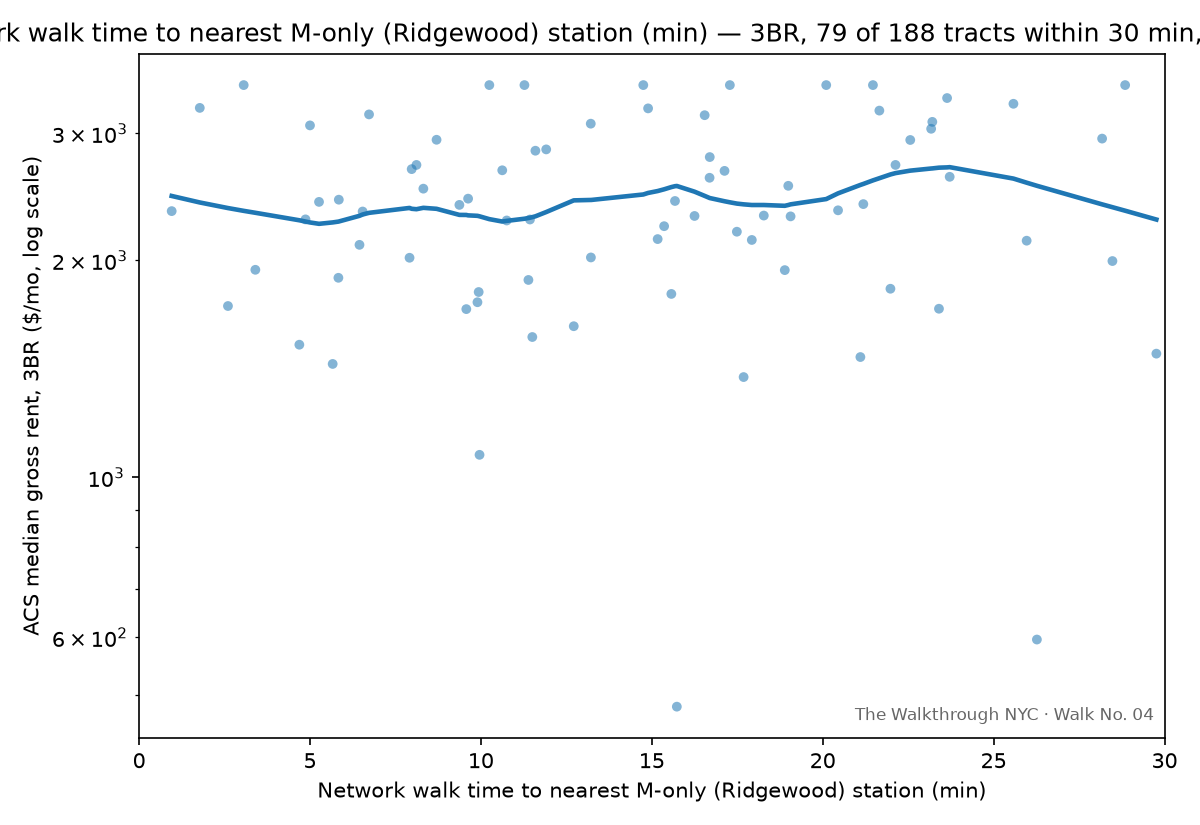
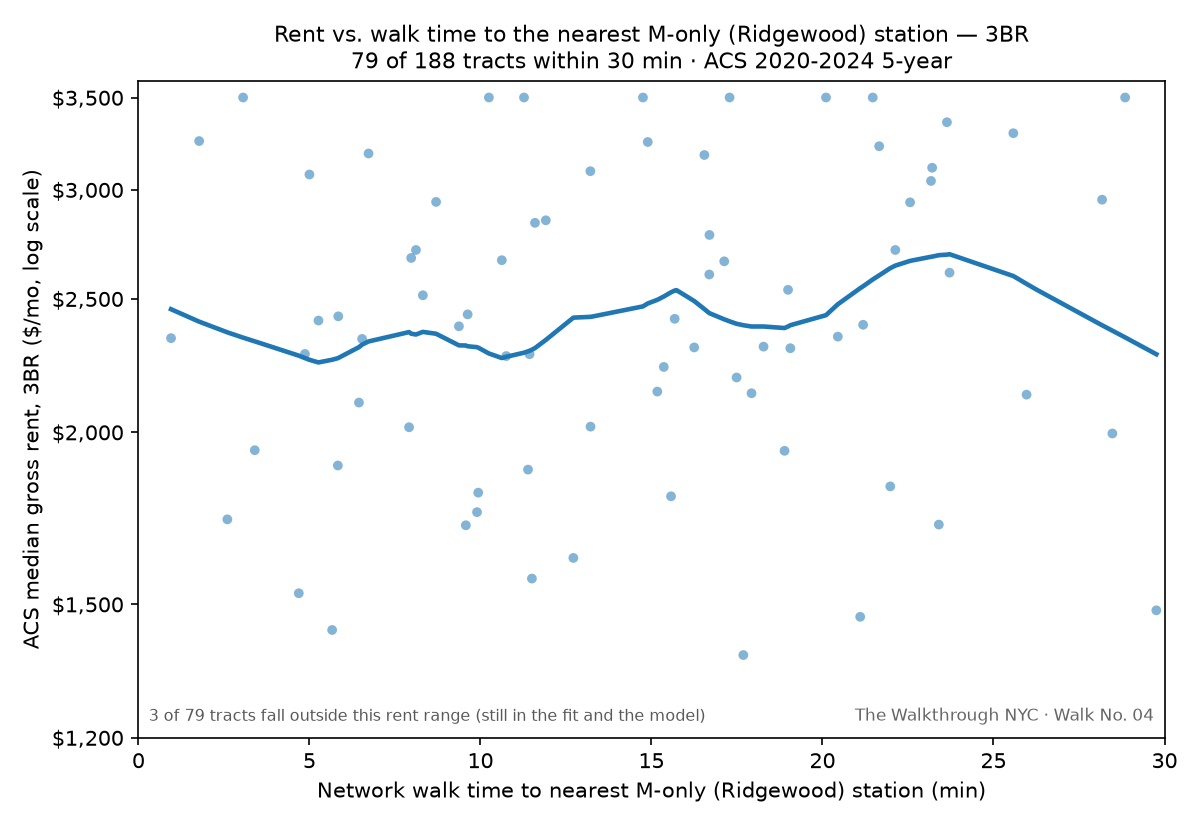
Add the binned gradient chart and tighten the scatter y-axis
The scatter crops at 30 walk-minutes, which is the flat part of the
curve, so it shows the finding at its least visible. gradient_binned*.png
plots median rent per walk-time bin out to 60 minutes, where the gradient
is plain: $2,088 -> $2,026 -> $1,960 -> $1,833 across the combined
series. Bootstrapped 95% intervals (seeded, so reruns don't churn the
PNG) and the full-sample model as a dashed reference line.

60 rather than the full 112-minute range because past an hour it stops
reading as "a walk"; 60 rather than 30 because capping at 30 removes the
evidence rather than an implausible claim. Jordan's call.

The title is descriptive, not a claim: combined, 1BR and 2BR fall across
the bins, but 3BR rises ($2,364 -> $2,634).

Also holds the scatter's y-axis to CHART_RENT_YLIM. Seven tracts in the
band are deeply subsidized -- full renter occupancy, thousands of
households, rent near $500 -- and left unbounded they squashed the
market-rate spread into the top half of the frame. They stay in the fit
and in the model; the chart counts them in a corner note. The scatter
title was also being clipped off both edges and now wraps.

Bin edges, the rent window and the minimum bin size are config knobs.

diff --git a/walk-04-ridgewood-rent-premium/src/03_clean_join.py b/walk-04-ridgewood-rent-premium/src/03_clean_join.py
@@ -9,6 +9,8 @@ blended median and the three bedroom-specific cuts. Produces, per series:
   - outputs/figures/scatter_rent_vs_ridgewood[_Nbr].png  THE plot — rent vs.
     walk to the nearest M-only (Ridgewood) station, 0-30 min, with a lowess
     overlay. Look at it. The plot is the gate, not the printed slope.
+  - outputs/figures/gradient_binned[_Nbr].png  the same gradient as group
+    medians out to 60 min — the version that reads from ten feet away.
 """
 
 from __future__ import annotations
@@ -39,30 +41,61 @@ CHARTS = [
      "scatter_rent_vs_ridgewood"),
 ]
 
+# Chart ink. BLUE carries the data; MUTED is reference/annotation, never a
+# second data series.
+BLUE, INK, MUTED = "#1f77b4", "#2b2b2b", "#8a8f98"
+
 
 def make_scatter(d: pd.DataFrame, rent_col: str, x_col: str, x_label: str,
                   label: str, out_png) -> float:
     """One scatter + lowess + bivariate slope, restricted to the realistic
     0-30 min walking range — both the fit and the display, not just the
     display, so far-away tracts don't smooth out the local pattern.
-    Returns the bivariate slope from that restricted range."""
+
+    The y-axis is held to config.CHART_RENT_YLIM so a few deeply subsidized
+    tracts don't squash the market-rate spread into the top of the frame.
+    That is a DISPLAY choice only: the lowess, the slope, and the model all
+    still use every tract, and any point outside the window is counted in a
+    note on the chart rather than quietly disappearing.
+
+    Returns the bivariate slope from the restricted range."""
     full_n = len(d)
     d = d[d[x_col] <= 30]
 
     fig, ax = plt.subplots(figsize=(8, 5.5), dpi=150)
     ax.scatter(d[x_col], d[rent_col], s=22, alpha=0.55, edgecolor="none")
 
+    # Fit on every tract in range, including any the y-window will hide.
     lo = sm.nonparametric.lowess(np.log(d[rent_col]), d[x_col], frac=0.3)
     ax.plot(lo[:, 0], np.exp(lo[:, 1]), lw=2.2)
 
     ax.set_yscale("log")
     ax.set_xlim(0, 30)
+
+    if C.CHART_RENT_YLIM:
+        y_lo, y_hi = C.CHART_RENT_YLIM
+        ax.set_ylim(y_lo, y_hi)
+        # Dollar ticks beat matplotlib's 2 x 10^3 for a walk audience.
+        ticks = [t for t in (1200, 1500, 2000, 2500, 3000, 3500) if y_lo <= t <= y_hi]
+        ax.set_yticks(ticks)
+        ax.set_yticklabels([f"${t:,}" for t in ticks])
+        ax.minorticks_off()
+
+        n_out = int(((d[rent_col] < y_lo) | (d[rent_col] > y_hi)).sum())
+        if n_out:
+            ax.text(0.01, 0.02,
+                    f"{n_out} of {len(d)} tracts fall outside this rent range "
+                    f"(still in the fit and the model)",
+                    transform=ax.transAxes, ha="left", va="bottom",
+                    fontsize=7.5, alpha=0.65)
+
     ax.set_xlabel(x_label)
     ax.set_ylabel(f"ACS median gross rent, {label} ($/mo, log scale)")
     vintage = int(d["acs_vintage"].iloc[0]) if "acs_vintage" in d else C.ACS_YEAR
-    ax.set_title(f"Rent vs. {x_label[0].lower()}{x_label[1:]} — {label}, "
-                 f"{len(d)} of {full_n} tracts within 30 min, "
-                 f"ACS {vintage - 4}-{vintage} 5-year")
+    ax.set_title(
+        f"Rent vs. walk time to the nearest M-only (Ridgewood) station — {label}\n"
+        f"{len(d)} of {full_n} tracts within 30 min · ACS {vintage - 4}-{vintage} 5-year",
+        fontsize=10.5)
     ax.text(0.99, 0.02, "The Walkthrough NYC · Walk No. 04", transform=ax.transAxes,
             ha="right", va="bottom", fontsize=8, alpha=0.6)
     fig.tight_layout()
@@ -71,6 +104,90 @@ def make_scatter(d: pd.DataFrame, rent_col: str, x_col: str, x_label: str,
 
     biv = sm.OLS(np.log(d[rent_col]), sm.add_constant(d[x_col])).fit()
     return float(biv.params[x_col])
+
+
+def make_binned_chart(d: pd.DataFrame, rent_col: str, label: str, out_png) -> None:
+    """Median rent per walk-time bin, out to config.BINNED_EDGES[-1].
+
+    The scatter crops at 30 minutes, which is the flat part of the curve —
+    this chart is the one where the gradient is actually visible, because it
+    keeps the farther tracts that give "near" something to be measured
+    against. Bootstrapped 95% intervals on each median (seeded, so reruns
+    don't churn the PNG), and the fitted model as a dashed reference line.
+
+    The model is refit here rather than read from coefficients.json so this
+    script stays runnable before 04 has ever been run.
+    """
+    rng = np.random.default_rng(0)
+    edges = C.BINNED_EDGES
+    full = d                                   # the model is the FULL-sample
+    d = d[d["walk_M_min"] <= edges[-1]]        # one; only the bins are capped
+
+    rows = []
+    for lo, hi in zip(edges[:-1], edges[1:]):
+        s = d[(d["walk_M_min"] > lo) & (d["walk_M_min"] <= hi)]
+        if len(s) < C.BINNED_MIN_N:
+            continue
+        vals = s[rent_col].values
+        boot = [np.median(rng.choice(vals, len(vals), replace=True)) for _ in range(2000)]
+        rows.append(dict(x=s["walk_M_min"].median(), med=np.median(vals), n=len(s),
+                         lab=f"{lo}\u2013{hi}", lo=np.percentile(boot, 2.5),
+                         hi=np.percentile(boot, 97.5)))
+    if len(rows) < 2:
+        print(f"  (binned chart skipped — only {len(rows)} usable bin(s))")
+        return
+    B = pd.DataFrame(rows)
+
+    fig, ax = plt.subplots(figsize=(8.6, 5.6), dpi=150)
+    ax.set_axisbelow(True)
+    ax.yaxis.grid(True, color="#e6e6e3", lw=0.8)
+    for spine in ("top", "right"):
+        ax.spines[spine].set_visible(False)
+    for spine in ("left", "bottom"):
+        ax.spines[spine].set_color("#cfcfca")
+
+    try:
+        res, info = lib.fit_model(full, rent_col=rent_col)
+        b1, p0 = info["beta1_per_min"], lib.predicted_p0(res, full)
+        w = np.linspace(0, edges[-1], 300)
+        ax.plot(w, p0 * np.exp(b1 * w), ls="--", lw=1.6, color=MUTED, zorder=1)
+        ax.annotate("model, controls held fixed — full sample\n"
+                    f"({b1 * 100:+.2f}% per minute, n={info['n']})",
+                    xy=(edges[-1] * 0.95, p0 * np.exp(b1 * edges[-1] * 0.95)),
+                    xytext=(0.08, 0.10), textcoords="axes fraction",
+                    fontsize=8.5, color=MUTED, ha="left", va="center",
+                    arrowprops=dict(arrowstyle="-", color=MUTED, lw=0.8))
+    except Exception as exc:                      # a thin series may not fit
+        print(f"  (model reference line skipped: {exc})")
+
+    ax.errorbar(B.x, B.med, yerr=[B.med - B.lo, B.hi - B.med], fmt="none",
+                ecolor=BLUE, elinewidth=1.4, capsize=4, alpha=0.55, zorder=2)
+    ax.plot(B.x, B.med, "-", lw=2.0, color=BLUE, zorder=3)
+    ax.scatter(B.x, B.med, s=70, color=BLUE, zorder=4, edgecolor="white", linewidth=1.5)
+    for r in B.itertuples():
+        ax.annotate(f"${r.med:,.0f}", (r.x, r.med), textcoords="offset points",
+                    xytext=(0, 15), ha="center", fontsize=10, color=INK, fontweight="bold")
+        ax.annotate(f"n={r.n}", (r.x, r.med), textcoords="offset points",
+                    xytext=(0, -17), ha="center", fontsize=8, color=MUTED)
+
+    # Leave room for every interval: a clipped error bar reads as "goes on
+    # forever", which is a worse lie than a roomy axis.
+    pad = 0.06 * (B.hi.max() - B.lo.min())
+    ax.set_xlim(-2, edges[-1] + 2)
+    ax.set_ylim(B.lo.min() - pad, B.hi.max() + pad)
+    ax.yaxis.set_major_formatter(lambda v, _: f"${v:,.0f}")
+    ax.set_xticks(edges)
+    ax.set_xlabel("Network walk time to the nearest M-only (Ridgewood) station (min)")
+    ax.set_ylabel(f"Median gross rent, {label} ($/mo)")
+    ax.set_title("Rent falls the farther you get from an M-only station\n"
+                 f"{label} · median across the {len(d)} tracts within "
+                 f"{edges[-1]} minutes' walk",
+                 fontsize=11.5, color=INK, loc="left", x=0)
+    ax.text(0.99, 0.02, "The Walkthrough NYC \u00b7 Walk No. 04", transform=ax.transAxes,
+            ha="right", va="bottom", fontsize=8, color=MUTED)
+    fig.tight_layout()
+    fig.savefig(out_png)
+    plt.close(fig)
 
 
 def process_series(df: pd.DataFrame, label: str, rent_col: str, moe_col: str, suffix: str) -> None:
@@ -107,6 +224,11 @@ def process_series(df: pd.DataFrame, label: str, rent_col: str, moe_col: str, su
         print(f"  Bivariate slope (no controls): {b * 100:+.2f}% per walk minute")
         if b < 0:
             print(f"  Naive half-life at that slope: {lib.half_life(b):.0f} min")
+
+    binned_png = C.FIGURES / f"gradient_binned{suffix}.png"
+    make_binned_chart(clean.dropna(subset=[rent_col, "walk_M_min"]), rent_col,
+                      label, binned_png)
+    print(f"Binned gradient -> {binned_png.relative_to(C.ROOT)}")
 
 
 def main() -> None:

diff --git a/walk-04-ridgewood-rent-premium/src/config.py b/walk-04-ridgewood-rent-premium/src/config.py
@@ -126,3 +126,25 @@ RENT_TOPCODE = 3500        # ACS top-codes median gross rent ("$3,500+").
                            # Bedford end, where true medians exceed it.
 
 GATE1_COMFORTABLE_N = 120  # suggestion only — the gate decision is yours
+
+# ---------------------------------------------------------------- charts
+CHART_RENT_YLIM = (1200, 3600)  # rent window the scatters display ($/mo).
+                                # The band is market-rate Ridgewood; a handful
+                                # of deeply subsidized tracts sit far below it
+                                # and, left in, squash everything else into the
+                                # top half of the frame. Tracts outside the
+                                # window are COUNTED IN A CORNER NOTE on the
+                                # chart, never silently dropped — and they stay
+                                # in the model regardless; this is a display
+                                # choice only. Set to None for matplotlib's
+                                # automatic range.
+
+BINNED_EDGES = [0, 15, 30, 45, 60]  # walk-minute bins for the binned-gradient
+                                    # chart. The scatter's 0-30 window is the
+                                    # flat part of the curve; the gradient only
+                                    # becomes visible once the farther tracts
+                                    # are in the frame, so this chart runs to 60.
+                                    # Past that it stops reading as "a walk" at
+                                    # all — Jordan's call, 2026-09-24.
+BINNED_MIN_N = 5                    # skip a bin thinner than this: a median of
+                                    # three tracts is not worth a dot.

diff --git a/walk-04-ridgewood-rent-premium/CLAUDE.md b/walk-04-ridgewood-rent-premium/CLAUDE.md
@@ -57,9 +57,20 @@ ln(rent_i) = β₀ + β₁·walk_M_i + controls + ε_i
 - Run once per rent series (combined/1BR/2BR/3BR) as a robustness check;
   results consolidated into one `model_summary.txt` and one
   `coefficients.json`.
-- One chart per series: `scatter_rent_vs_ridgewood*.png`, restricted to
-  the realistic 0–30 min walking range (both the display and the lowess
-  fit, so far-away tracts don't smooth out the local pattern).
+- Two charts per series. `scatter_rent_vs_ridgewood*.png` is the
+  tract-level scatter, restricted to the realistic 0–30 min walking range
+  (both the display and the lowess fit, so far-away tracts don't smooth
+  out the local pattern), with the y-axis held to `CHART_RENT_YLIM` so a
+  few deeply subsidized tracts don't squash the market-rate spread — they
+  stay in the model and are counted in a note on the chart.
+  `gradient_binned*.png` is the one that reads from across a sidewalk:
+  median rent per walk-time bin out to 60 min (`BINNED_EDGES`), with
+  bootstrapped 95% intervals and the full-sample model as a dashed
+  reference. It runs to 60 rather than 30 because the 0–30 window is the
+  flat part of the curve, and past 60 it stops reading as "a walk" —
+  Jordan's call, 2026-09-24. Its title is deliberately descriptive: the
+  combined, 1BR and 2BR series fall across the bins, but **3BR rises**
+  ($2,364 → $2,634), so the chart must not assert a direction.
 - Realistic-range check (tracts with `walk_M_min` ≤ 30): the raw
   correlation looks stronger, but the controlled model loses power — 3 of
   4 series stop being significant. The full-sample result is the reliable
@@ -81,7 +92,7 @@ ln(rent_i) = β₀ + β₁·walk_M_i + controls + ε_i
 |---|---|---|
 | `src/01_pull_acs.py` | `make pull` | Stations → tag the M-only tier (complex-aware) → corridor spine → band → TIGER tracts → ACS pull (blended + per-bedroom). Prints Gate 1. |
 | `src/02_walk_times.py` | `make walktimes` | OSMnx walk graph, multi-source Dijkstra x3 (M-only; full non-L and L as controls). Labels each tract's nearest M-only station. |
-| `src/03_clean_join.py` | `make clean_join` | Cleans + plots the Ridgewood scatter for all four rent series. Prints Gate 2. |
+| `src/03_clean_join.py` | `make clean_join` | Cleans, then plots two charts per rent series: the tract-level scatter (0–30 min) and the binned-median gradient (out to 60 min). Prints Gate 2. |
 | `src/04_model.py` | `make model` | Fits all four series; the M coefficient is the headline. Writes `model_summary.txt` and `coefficients.json`. |
 
 `src/config.py` holds every tunable knob. `src/lib.py` holds the tested

diff --git a/walk-04-ridgewood-rent-premium/README.md b/walk-04-ridgewood-rent-premium/README.md
@@ -51,7 +51,7 @@ pip install -r requirements.txt
 export CENSUS_API_KEY=...   # free + instant: https://api.census.gov/data/key_signup.html
 make pull        # 01: band, tracts, ACS rent (blended + per-bedroom) → prints Gate 1
 make walktimes   # 02: OSMnx walk times by station tier
-make clean_join  # 03: cleaning log + the Ridgewood scatter, per series → prints Gate 2
+make clean_join  # 03: cleaning log + two charts per series → prints Gate 2
 make model       # 04: fits the model — the Ridgewood coefficient is the headline number
 make test        # offline tests on the transforms
 

diff --git a/walk-04-ridgewood-rent-premium/walk/script.md b/walk-04-ridgewood-rent-premium/walk/script.md
@@ -13,7 +13,7 @@ Abracadabra Magic Cafe.
 > different directions.
 >
 > Here's the rule that keeps us together: everybody walks fifteen minutes out,
-> then turns around and comes back.** Not to a destination — to a time. That way
+> then turns around and comes back. Not to a destination — to a time. That way
 > we all cover about the same ground and we all get back here at the same time.
 >
 > **North group** — up Palmetto, right on Woodward Ave, left on Putnam Ave,
